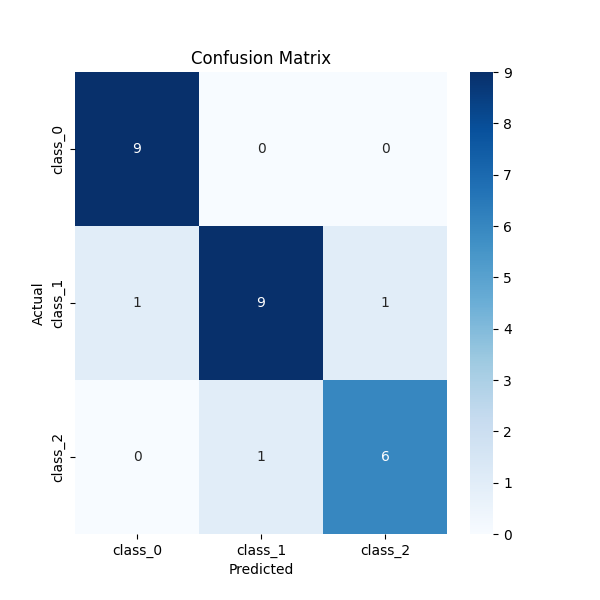
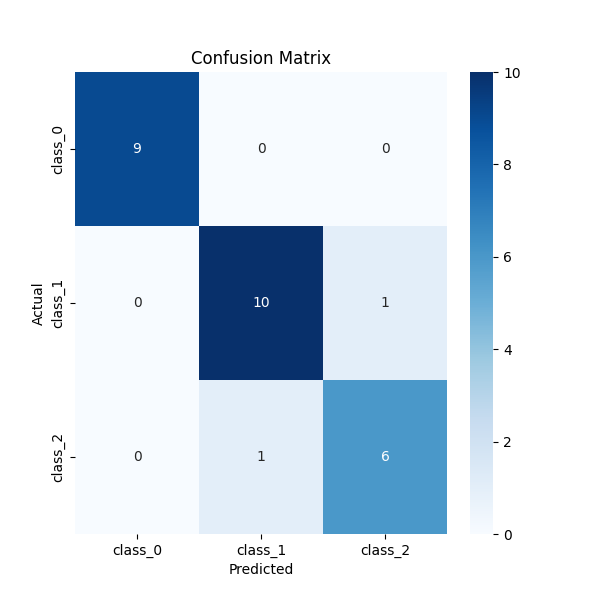
mlflow practice remote and autolog

diff --git a/src/mlflow-gridcv.py b/src/mlflow-gridcv.py
@@ -1,0 +1,90 @@
+from sklearn.model_selection import GridSearchCV
+from sklearn.ensemble import RandomForestClassifier
+from sklearn.model_selection import train_test_split
+from sklearn.datasets import load_breast_cancer
+import pandas as pd
+import mlflow
+
+# Load the Breast Cancer dataset
+data = load_breast_cancer()
+X = pd.DataFrame(data.data, columns=data.feature_names)
+y = pd.Series(data.target, name='target')
+
+# Splitting into training and testing sets
+X_train, X_test, y_train, y_test = train_test_split(X, y, test_size=0.2, random_state=42)
+
+# Creating the RandomForestClassifier model
+rf = RandomForestClassifier(random_state=42)
+
+# Defining the parameter grid for GridSearchCV
+param_grid = {
+    'n_estimators': [10, 50, 100],
+    'max_depth': [None, 10, 20, 30]
+}
+
+# Applying GridSearchCV
+grid_search = GridSearchCV(estimator=rf, param_grid=param_grid, cv=5, n_jobs=-1, verbose=2)
+
+# # Run without MLflow from here
+# grid_search.fit(X_train, y_train)
+
+# # Displaying the best params and best score
+# best_params = grid_search.best_params_
+# best_score = grid_search.best_score_
+
+# print(best_params)
+# print(best_score)
+# # Till here
+
+import dagshub
+dagshub.init(repo_owner='rnjt80', repo_name='mlflow-practical', mlflow=True)
+
+mlflow.set_tracking_uri("https://dagshub.com/rnjt80/mlflow-practical.mlflow")
+
+mlflow.set_experiment('breast-cancer-rf-hp-1')
+
+with mlflow.start_run() as parent:
+    grid_search.fit(X_train, y_train)
+
+    # log all the child runs
+    for i in range(len(grid_search.cv_results_['params'])):
+
+        with mlflow.start_run(nested=True) as child:
+            mlflow.log_params(grid_search.cv_results_["params"][i])
+            mlflow.log_metric("accuracy", grid_search.cv_results_["mean_test_score"][i])
+
+    # Displaying the best parameters and the best score
+    best_params = grid_search.best_params_
+    best_score = grid_search.best_score_
+
+    # Log params
+    mlflow.log_params(best_params)
+
+    # Log metrics
+    mlflow.log_metric("accuracy", best_score)
+
+    # Log training data
+    train_df = X_train.copy()
+    train_df['target'] = y_train
+
+    train_df = mlflow.data.from_pandas(train_df)
+    mlflow.log_input(train_df, "training")
+
+    # Log test data
+    test_df = X_test.copy()
+    test_df['target'] = y_test
+
+    test_df = mlflow.data.from_pandas(test_df)
+    mlflow.log_input(test_df, "testing")
+
+    # Log source code
+    mlflow.log_artifact(__file__)
+
+    # Log the best model
+    mlflow.sklearn.log_model(grid_search.best_estimator_, "random_forest")
+
+    # Set tags
+    mlflow.set_tag("author", "Ranjit")
+
+    print(best_params)
+    print(best_score)

diff --git a/src/mlflow-remote.py b/src/mlflow-remote.py
@@ -1,0 +1,74 @@
+# >>> Setting up remote server:
+# - Go to Dagshub ( Sign up with github)
+# - Create > new repo > connect a repo > Github > Select the repo > Connect repo
+# Go to dagshub repo > remote > Experiments > Copy tracking uri
+
+
+# https://dagshub.com/rnjt80/mlflow-practical.mlflow
+
+# import dagshub
+# dagshub.init(repo_owner='rnjt80', repo_name='mlflow-practical', mlflow=True)
+
+import mlflow
+import mlflow.sklearn
+from sklearn.datasets import load_wine
+from sklearn.ensemble import RandomForestClassifier
+from sklearn.model_selection import train_test_split
+from sklearn.metrics import accuracy_score, confusion_matrix
+import matplotlib.pyplot as plt
+import seaborn as sns
+
+import dagshub
+dagshub.init(repo_owner='rnjt80', repo_name='mlflow-practical', mlflow=True)
+
+mlflow.set_tracking_uri("https://dagshub.com/rnjt80/mlflow-practical.mlflow")
+
+# Load Wine Dataset
+wine = load_wine()
+X = wine.data
+y = wine.target
+
+# Train test split
+X_train, X_test, y_train, y_test = train_test_split(X, y, test_size=0.15, random_state=42)
+
+#Define the params for RF model
+max_depth = 10
+n_estimators = 5
+
+# Mention the name of your experiment below
+mlflow.set_experiment('exp1-remote')
+
+with mlflow.start_run():
+    rf = RandomForestClassifier(max_depth=max_depth, n_estimators=n_estimators, random_state=42)
+    rf.fit(X_train, y_train)
+
+    y_pred = rf.predict(X_test)
+    accuracy = accuracy_score(y_test, y_pred)
+
+    mlflow.log_metric('accuracy', accuracy)
+    mlflow.log_param('max_depth', max_depth)
+    mlflow.log_param('n_estimators', n_estimators)
+
+    #Creating a confustion metrix plot
+
+    cm = confusion_matrix(y_test, y_pred)
+    plt.figure(figsize=(6,6))
+    sns.heatmap(cm, annot=True, fmt='d', cmap ='Blues', xticklabels=wine.target_names, yticklabels=wine.target_names)
+    plt.ylabel('Actual')
+    plt.xlabel('Predicted')
+    plt.title('Confusion Matrix')
+   
+    # Save Plot
+    plt.savefig("Confusion-matrix.png")
+
+    # Log artifacts using mlflow
+    mlflow.log_artifact("Confusion-matrix.png")
+    mlflow.log_artifact(__file__)
+
+    # tags
+    mlflow.set_tags({"Author": 'Ranjit', "Project": 'Wine Classification'})
+
+    # Log the model
+    mlflow.sklearn.log_model(rf, "Random-Forest-Model")
+
+    print(accuracy)

diff --git a/src/mlflow-autolog.py b/src/mlflow-autolog.py
@@ -1,0 +1,58 @@
+import mlflow
+import mlflow.sklearn
+from sklearn.datasets import load_wine
+from sklearn.ensemble import RandomForestClassifier
+from sklearn.model_selection import train_test_split
+from sklearn.metrics import accuracy_score, confusion_matrix
+import matplotlib.pyplot as plt
+import seaborn as sns
+
+import dagshub
+dagshub.init(repo_owner='rnjt80', repo_name='mlflow-practical', mlflow=True)
+
+mlflow.set_tracking_uri("https://dagshub.com/rnjt80/mlflow-practical.mlflow")
+
+# Load Wine Dataset
+wine = load_wine()
+X = wine.data
+y = wine.target
+
+# Train test split
+X_train, X_test, y_train, y_test = train_test_split(X, y, test_size=0.15, random_state=42)
+
+#Define the params for RF model
+max_depth = 20
+n_estimators = 10
+
+# Mention the name of your experiment below
+mlflow.autolog()
+mlflow.set_experiment('exp2-remote')
+
+with mlflow.start_run():
+    rf = RandomForestClassifier(max_depth=max_depth, n_estimators=n_estimators, random_state=42)
+    rf.fit(X_train, y_train)
+
+    y_pred = rf.predict(X_test)
+    accuracy = accuracy_score(y_test, y_pred)
+
+    #Creating a confustion metrix plot
+
+    cm = confusion_matrix(y_test, y_pred)
+    plt.figure(figsize=(6,6))
+    sns.heatmap(cm, annot=True, fmt='d', cmap ='Blues', xticklabels=wine.target_names, yticklabels=wine.target_names)
+    plt.ylabel('Actual')
+    plt.xlabel('Predicted')
+    plt.title('Confusion Matrix')
+   
+    # Save Plot
+    plt.savefig("Confusion-matrix.png")
+
+    mlflow.log_metric('accuracy', accuracy)
+    
+    # Log artifacts using mlflow
+    mlflow.log_artifact(__file__)
+
+    # tags
+    mlflow.set_tags({"Author": 'Ranjit', "Project": 'Wine Classification'})
+
+    print(accuracy)
